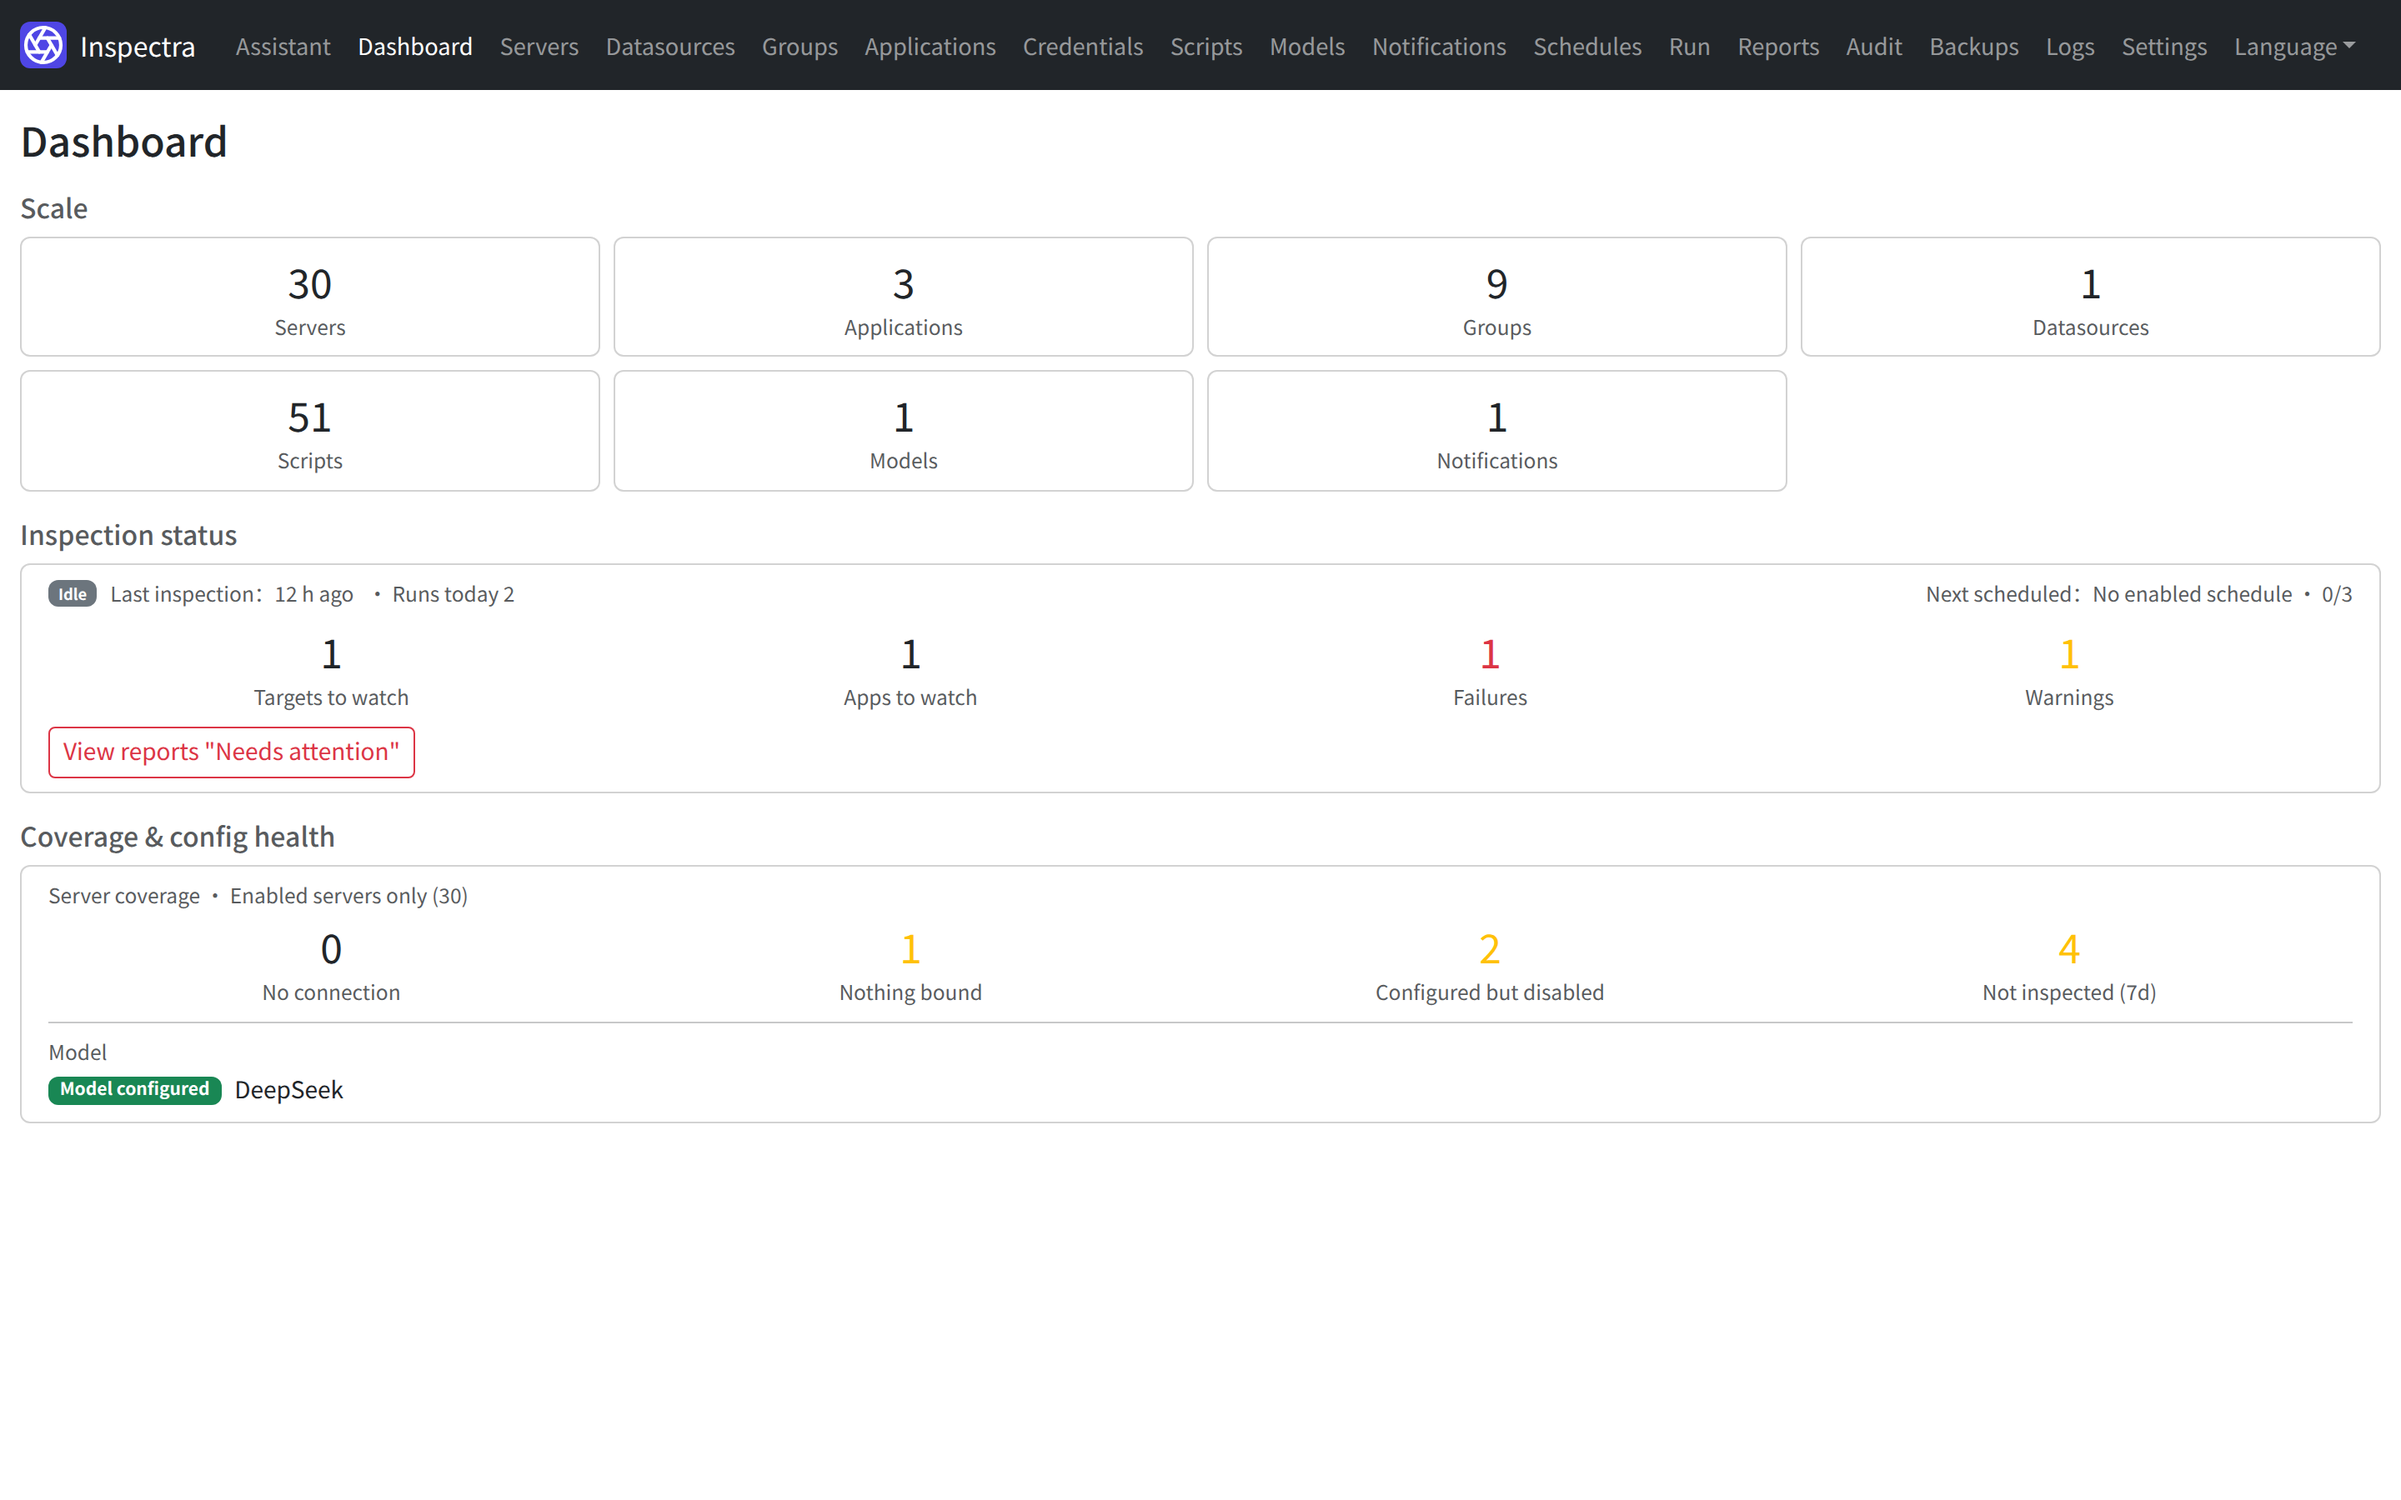
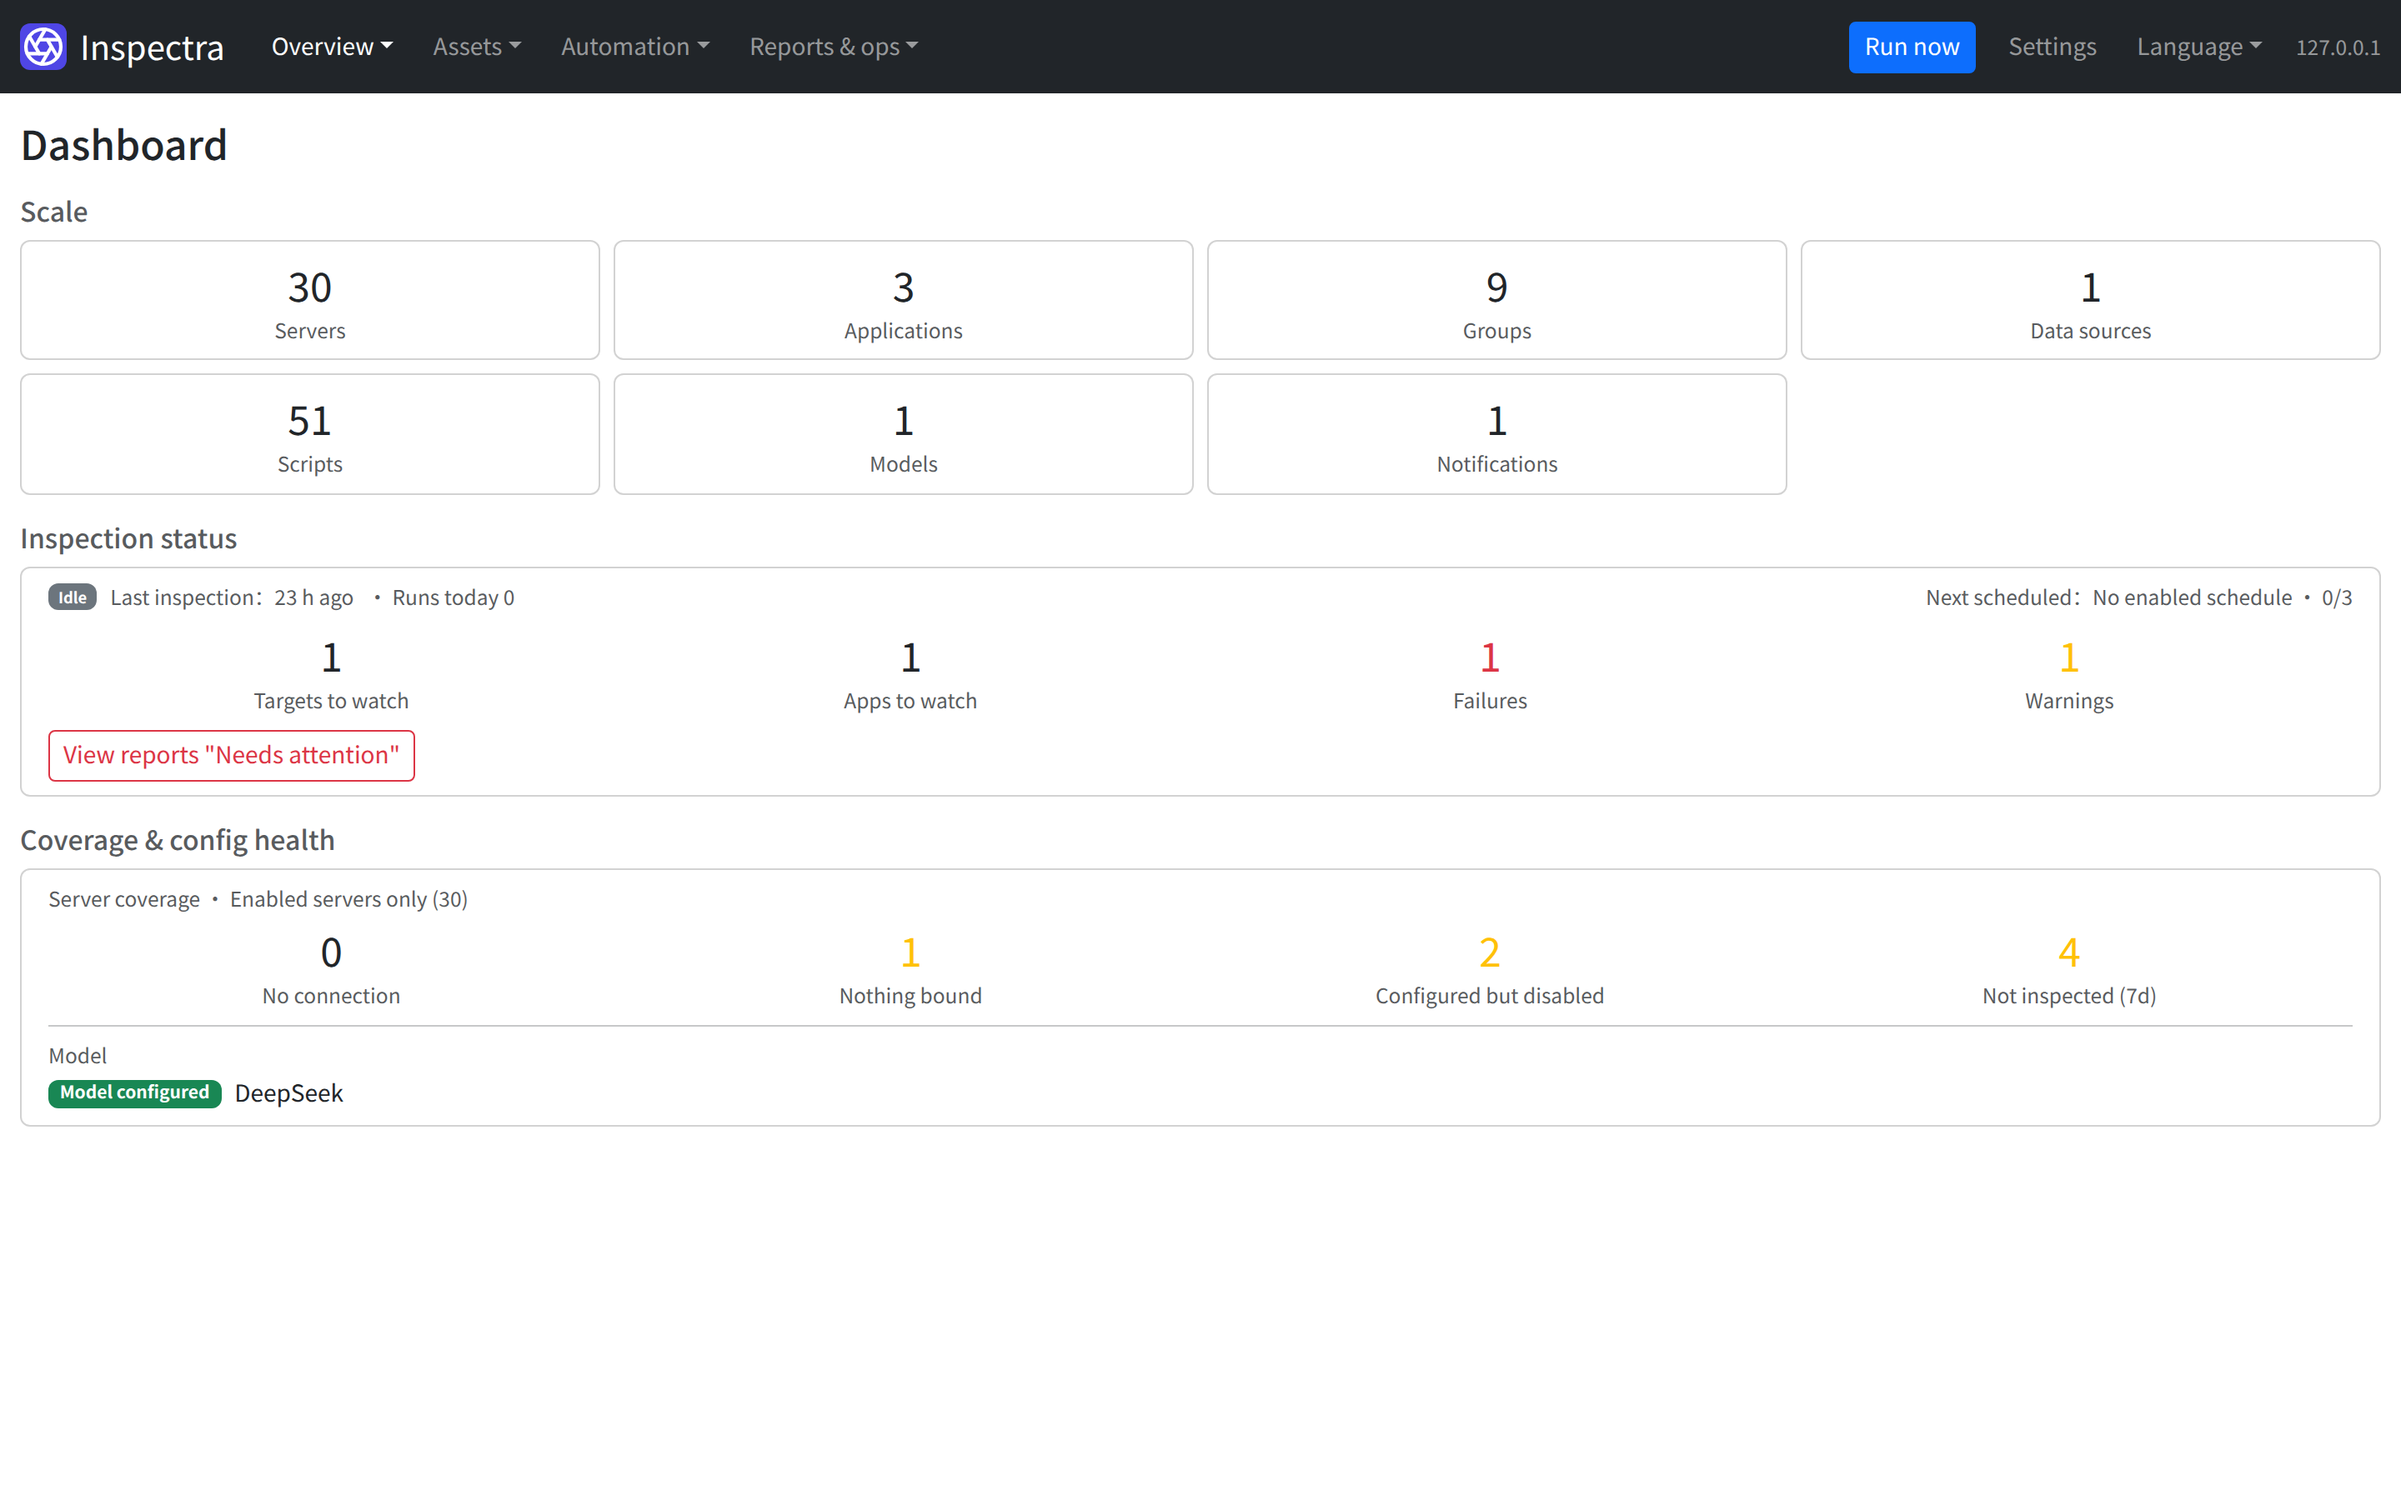
顶部导航分组化（四个下拉 + 立即执行主按钮）、统一下拉字号并刷新截图 / Group top nav into four dropdowns with a Run CTA, align dropdown font, refresh screenshots
- 顶部导航按域分组：概览 / 资产 / 自动化 / 报告与运维；当前分组高亮；断点回 expand-lg
- 右侧动作区：「立即执行」主按钮 + 设置 + 语言 + 客户端 IP（≥1400 显示）
- 分组间距微调（nav-link 内边距 .75rem）；导航下拉字号与导航一致（14px，修下拉偏大）
- 恢复英文导航全称（Data sources / Run now / Audit log / App logs）
- 新增 nav.group_* 词条（zh-CN/en/_template 同步）
- 重新采集 README 界面截图 docs/images/{zh,en}

- Group top nav by domain: Overview / Assets / Automation / Reports & ops; highlight the active group; breakpoint back to expand-lg
- Right action cluster: "Run now" primary button + Settings + Language + client IP (shown at >=1400)
- Slightly wider group spacing (nav-link padding .75rem); navbar dropdown font matches nav (14px, fixes oversized items)
- Restore full English labels (Data sources / Run now / Audit log / App logs)
- Add nav.group_* keys (zh-CN/en/_template in sync)
- Regenerate README screenshots under docs/images/{zh,en}

diff --git a/web/templates/base.html b/web/templates/base.html
@@ -18,7 +18,7 @@
   <link href="{{ url_for('static', filename='style.css') }}" rel="stylesheet">
 </head>
 <body>
-<nav class="navbar navbar-expand-xxl navbar-dark bg-dark">
+<nav class="navbar navbar-expand-lg navbar-dark bg-dark">
   <div class="container-fluid">
     <a class="navbar-brand d-inline-flex align-items-center gap-2" href="{{ url_for('index') }}">
       <img src="{{ url_for('static', filename='logo.svg') }}" alt="" width="28" height="28" class="d-inline-block align-text-top">
@@ -29,22 +29,27 @@
     </button>
     <div class="collapse navbar-collapse" id="nav">
       <ul class="navbar-nav me-auto">
-        {% set items = [
-          ('chatbot_page','nav.chatbot','/chatbot'), ('dashboard','nav.dashboard','/dashboard'),
-          ('servers','nav.servers','/servers'), ('datasources','nav.datasources','/datasources'),
-          ('groups','nav.groups','/groups'), ('applications','nav.applications','/applications'),
-          ('credentials','nav.credentials','/credentials'),
-          ('scripts','nav.scripts','/scripts'), ('models_page','nav.models','/models'),
-          ('notifications','nav.notifications','/notifications'), ('schedules','nav.schedules','/schedules'),
-          ('run_page','nav.run','/run'), ('reports','nav.reports','/reports'),
-          ('audit_logs','nav.audit','/audit-logs'), ('backups','nav.backups','/backups'),
-          ('logs_page','nav.logs','/logs'), ('settings_page','nav.settings','/settings')
+        {% set nav_groups = [
+          ('nav.group_overview', [('chatbot_page','nav.chatbot','/chatbot'), ('dashboard','nav.dashboard','/dashboard')]),
+          ('nav.group_assets', [('servers','nav.servers','/servers'), ('datasources','nav.datasources','/datasources'), ('groups','nav.groups','/groups'), ('applications','nav.applications','/applications'), ('credentials','nav.credentials','/credentials')]),
+          ('nav.group_automation', [('scripts','nav.scripts','/scripts'), ('models_page','nav.models','/models'), ('notifications','nav.notifications','/notifications'), ('schedules','nav.schedules','/schedules')]),
+          ('nav.group_reports', [('reports','nav.reports','/reports'), ('audit_logs','nav.audit','/audit-logs'), ('backups','nav.backups','/backups'), ('logs_page','nav.logs','/logs')]),
         ] %}
-        {% for ep, key, href in items %}
-          <li class="nav-item"><a class="nav-link {{ 'active' if nav_active == ep else '' }}" href="{{ href }}">{{ t(key) }}</a></li>
+        {% for gkey, gitems in nav_groups %}
+          {% set is_active = nav_active in (gitems | map(attribute=0) | list) %}
+          <li class="nav-item dropdown">
+            <a class="nav-link dropdown-toggle {{ 'active' if is_active else '' }}" href="#" role="button" data-bs-toggle="dropdown">{{ t(gkey) }}</a>
+            <ul class="dropdown-menu">
+              {% for ep, key, href in gitems %}
+              <li><a class="dropdown-item {{ 'active' if nav_active == ep else '' }}" href="{{ href }}">{{ t(key) }}</a></li>
+              {% endfor %}
+            </ul>
+          </li>
         {% endfor %}
       </ul>
-      <ul class="navbar-nav">
+      <ul class="navbar-nav align-items-lg-center">
+        <li class="nav-item me-2"><a class="btn btn-primary btn-sm" href="{{ url_for('run_page') }}">{{ t('nav.run') }}</a></li>
+        <li class="nav-item"><a class="nav-link {{ 'active' if nav_active == 'settings_page' else '' }}" href="{{ url_for('settings_page') }}">{{ t('nav.settings') }}</a></li>
         <li class="nav-item dropdown">
           <a class="nav-link dropdown-toggle" href="#" role="button" data-bs-toggle="dropdown">{{ t('common.language') }}</a>
           <ul class="dropdown-menu dropdown-menu-end">

diff --git a/web/static/style.css b/web/static/style.css
@@ -1,10 +1,11 @@
 body { font-size: 14px; }
 
-/* 顶部导航：多词标签不换行；收紧间距以便单行容纳较多菜单；IP 仅超宽屏显示 */
-.navbar .nav-link { white-space: nowrap; padding-left: .3rem; padding-right: .3rem; font-size: .85rem; }
-.navbar .navbar-brand { font-size: 1rem; }
+/* 顶部导航：标签不换行、分组间距适中；下拉字号与导航一致；客户端 IP 仅宽屏显示 */
+.navbar .nav-link { white-space: nowrap; }
+.navbar .navbar-nav .nav-link { padding-left: .75rem; padding-right: .75rem; }
+.navbar .dropdown-menu { --bs-dropdown-font-size: .875rem; }
 .navbar-ip { display: none; }
-@media (min-width: 1600px) { .navbar-ip { display: inline; } }
+@media (min-width: 1400px) { .navbar-ip { display: inline; } }
 .report-pre {
   white-space: pre-wrap;
   word-break: break-word;
